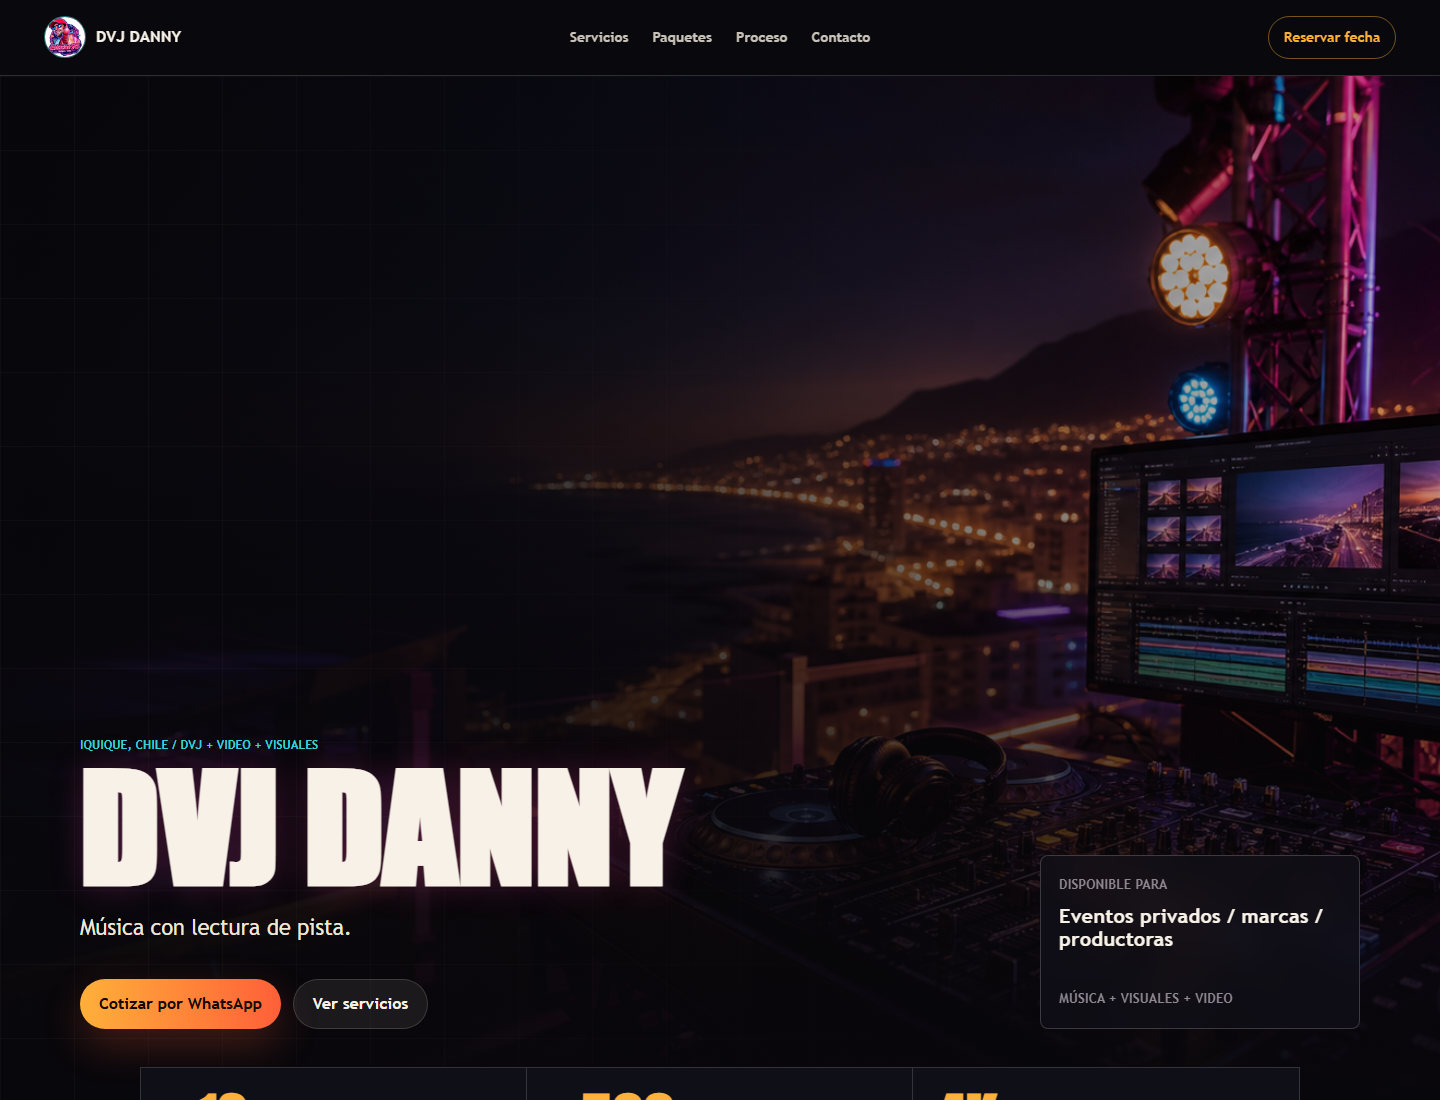
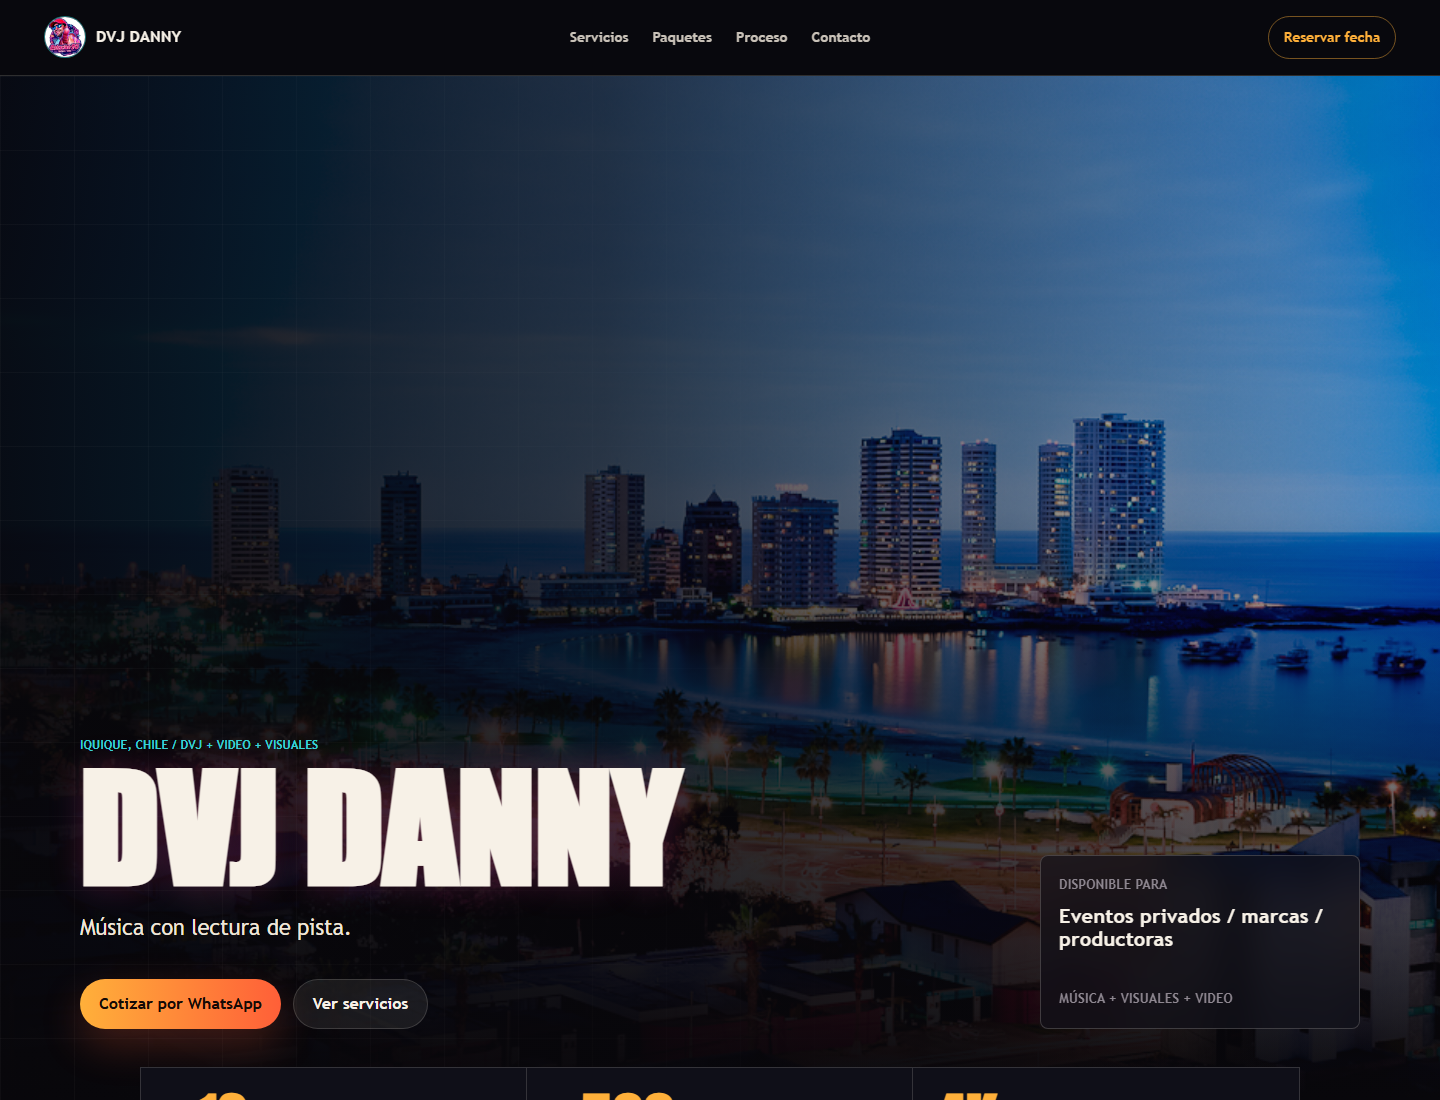
Use real Iquique night background

diff --git a/templates/index.html b/templates/index.html
@@ -31,8 +31,8 @@
       <section class="hero">
         <img
           class="hero-image"
-          src="/img/hero-dj-iquique.png"
-          alt="Cabina de DVJ y equipo de edición audiovisual en ambiente nocturno inspirado en Iquique"
+          src="/img/iquique-night-skyline.jpg"
+          alt="Vista nocturna real del skyline de Iquique"
         >
         <div class="hero-shade"></div>
         <div class="hero-grid" aria-hidden="true"></div>

diff --git a/README.md b/README.md
@@ -10,6 +10,8 @@ https://dvjdanny.vercel.app
 
 [![Vista previa de dvjdanny.vercel.app](public/img/site-preview.png)](https://dvjdanny.vercel.app)
 
+Imagen de fondo: [Iquique night skyline](https://commons.wikimedia.org/wiki/File:Iquique_night_skyline.jpg), por `<F.J>`, disponible bajo licencia [CC BY 2.0](https://creativecommons.org/licenses/by/2.0/).
+
 ## Sobre El Proyecto
 
 Este sitio presenta la identidad, servicios y propuesta en una experiencia directa, visual y orientada al contacto.